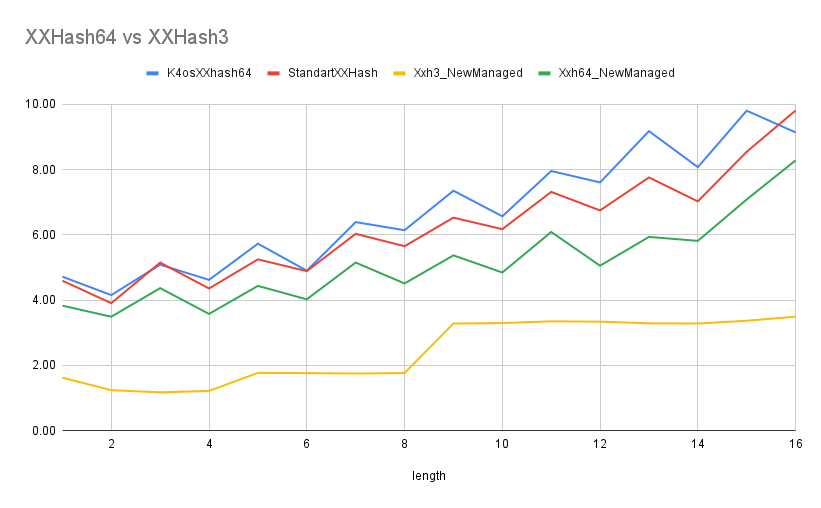
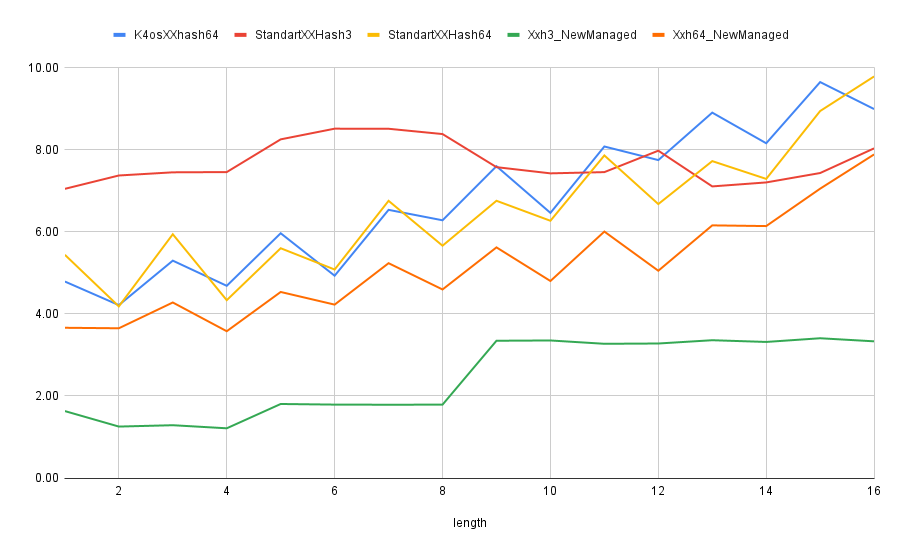
Added another XXHash3 implementation to benchmarks.

diff --git a/Benchmarks/StringTests.cs b/Benchmarks/StringTests.cs
@@ -44,10 +44,17 @@ namespace XXHash.Benchmarks
         }
 
         [Benchmark]
-        public void StandartXXHash()
+        public void StandartXXHash64()
         {
             var bytes = MemoryMarshal.AsBytes(str.AsSpan());
             var hash = Standart.Hash.xxHash.xxHash64.ComputeHash(bytes, bytes.Length);
+        }
+
+        [Benchmark]
+        public void StandartXXHash3()
+        {
+            var bytes = MemoryMarshal.AsBytes(str.AsSpan());
+            var hash = Standart.Hash.xxHash.xxHash3.ComputeHash(bytes, bytes.Length);
         }
 
         //[Benchmark]

diff --git a/README.md b/README.md
@@ -1,5 +1,5 @@
 # xxHash3
-Fastest (2022-06-13) NET implementation of Yan Collets XXHash64 and XXHash3_64 hash functions.
+Fastest (2022-06-14) C#/NET implementation of Yan Collets XXHash64 and XXHash3_64 hash functions.
 
 Nuget packets:
 
